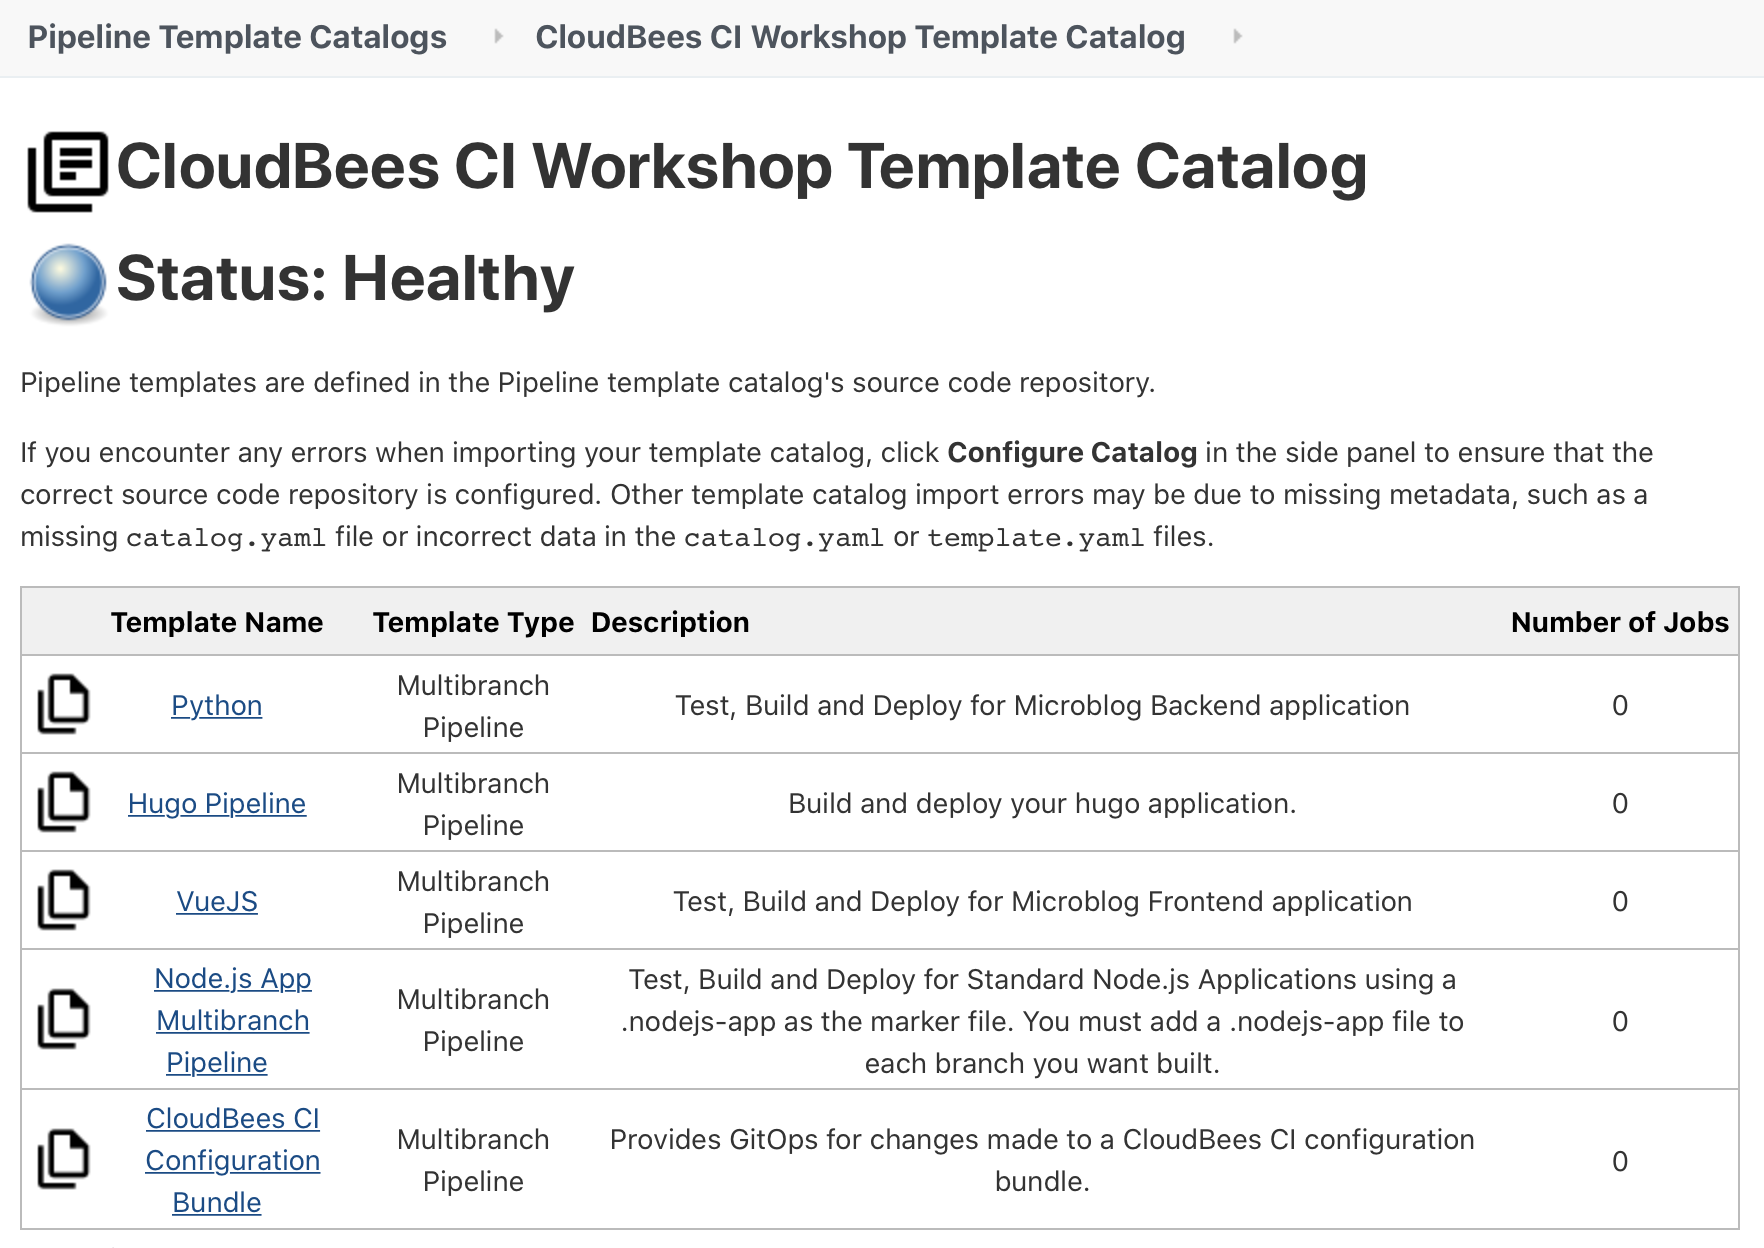
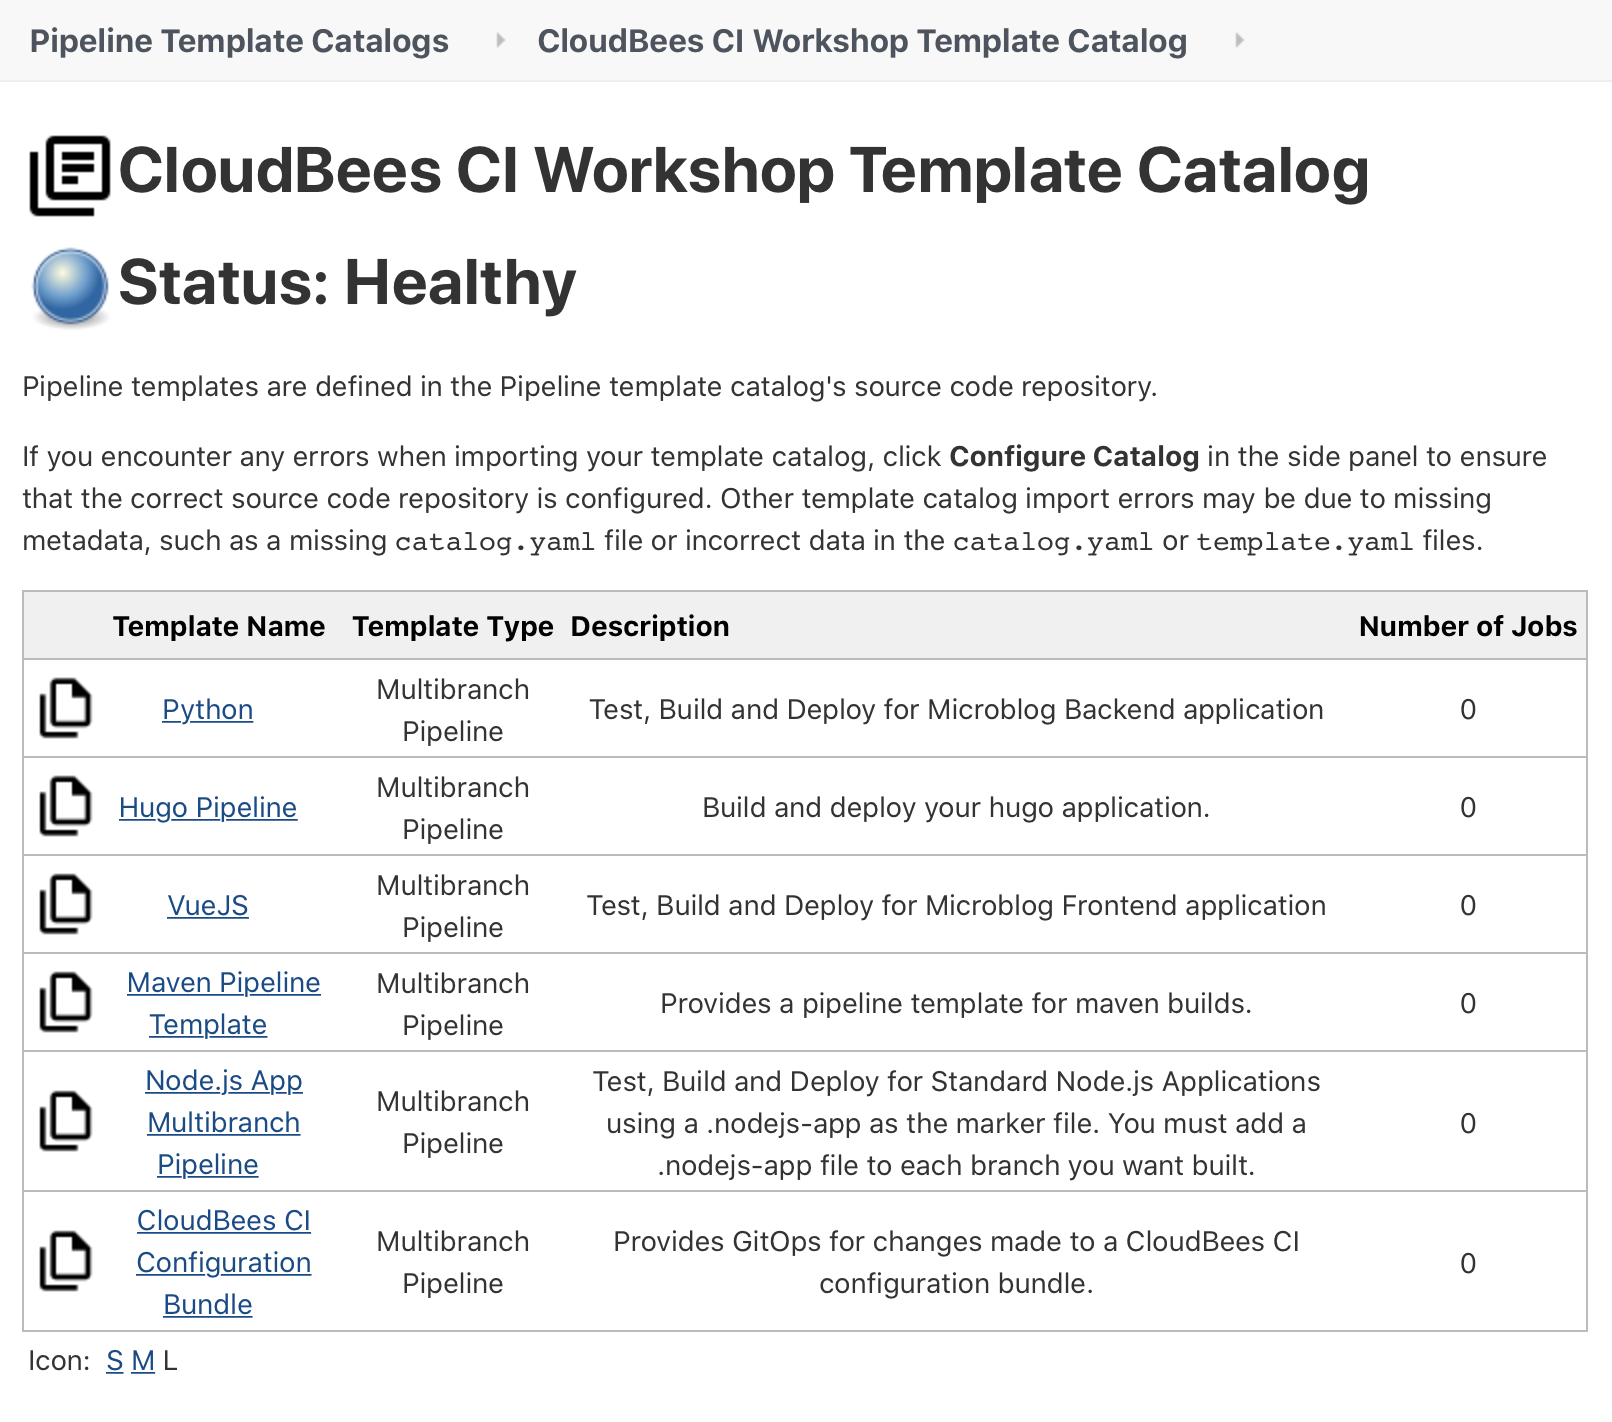
updated pipeline template lab

diff --git a/labs/cloudbees-ci/content/module-1/pipeline-template-catalog.md b/labs/cloudbees-ci/content/module-1/pipeline-template-catalog.md
@@ -28,10 +28,11 @@ Although you can add Pipeline Template Catalogs via the managed controller UI, t
    ```
 
 7. Navigate to the top-level of your ***managed controller*** and then click on the **Pipeline Template Catalogs** link in the menu on the left. <p>![Pipeline Template Catalogs link](catalog-link.png?width=60pc)
-8. On the **Pipeline Template Catalogs** page click on the line for the **workshopCatalog**. <p>![workshopCatalog link](workshopcatalog-link.png?width=60pc)
-9.  On the **CloudBees CI Workshop Template Catalog** screen you will see 5 templates listed. <p>![Template List](workshop-template-list.png?width=60pc)
+8. On the **Pipeline Template Catalogs** page click on the line for the **workshopCatalog**. <p>![workshopCatalog link](workshopcatalog-link.png?width=50pc)
+9.  On the **CloudBees CI Workshop Template Catalog** screen you will see the following templates listed: <p>![Template List](workshop-template-list.png?width=50pc)
 
 ## Enforce the Use of Templates at the Folder Level
+The CloudBees CI Folders Plus feature allows you to restrict the type of items 
 
 1. Navigate back to the top-level of your CloudBees CI managed controller (Jenkins instance) and click on **New Item** in the left menu.
 2. For the **item name** enter ***template-jobs***, select **Folder** and then click the **OK** button. <p><img src="new-folder-click.png" width=800/>
